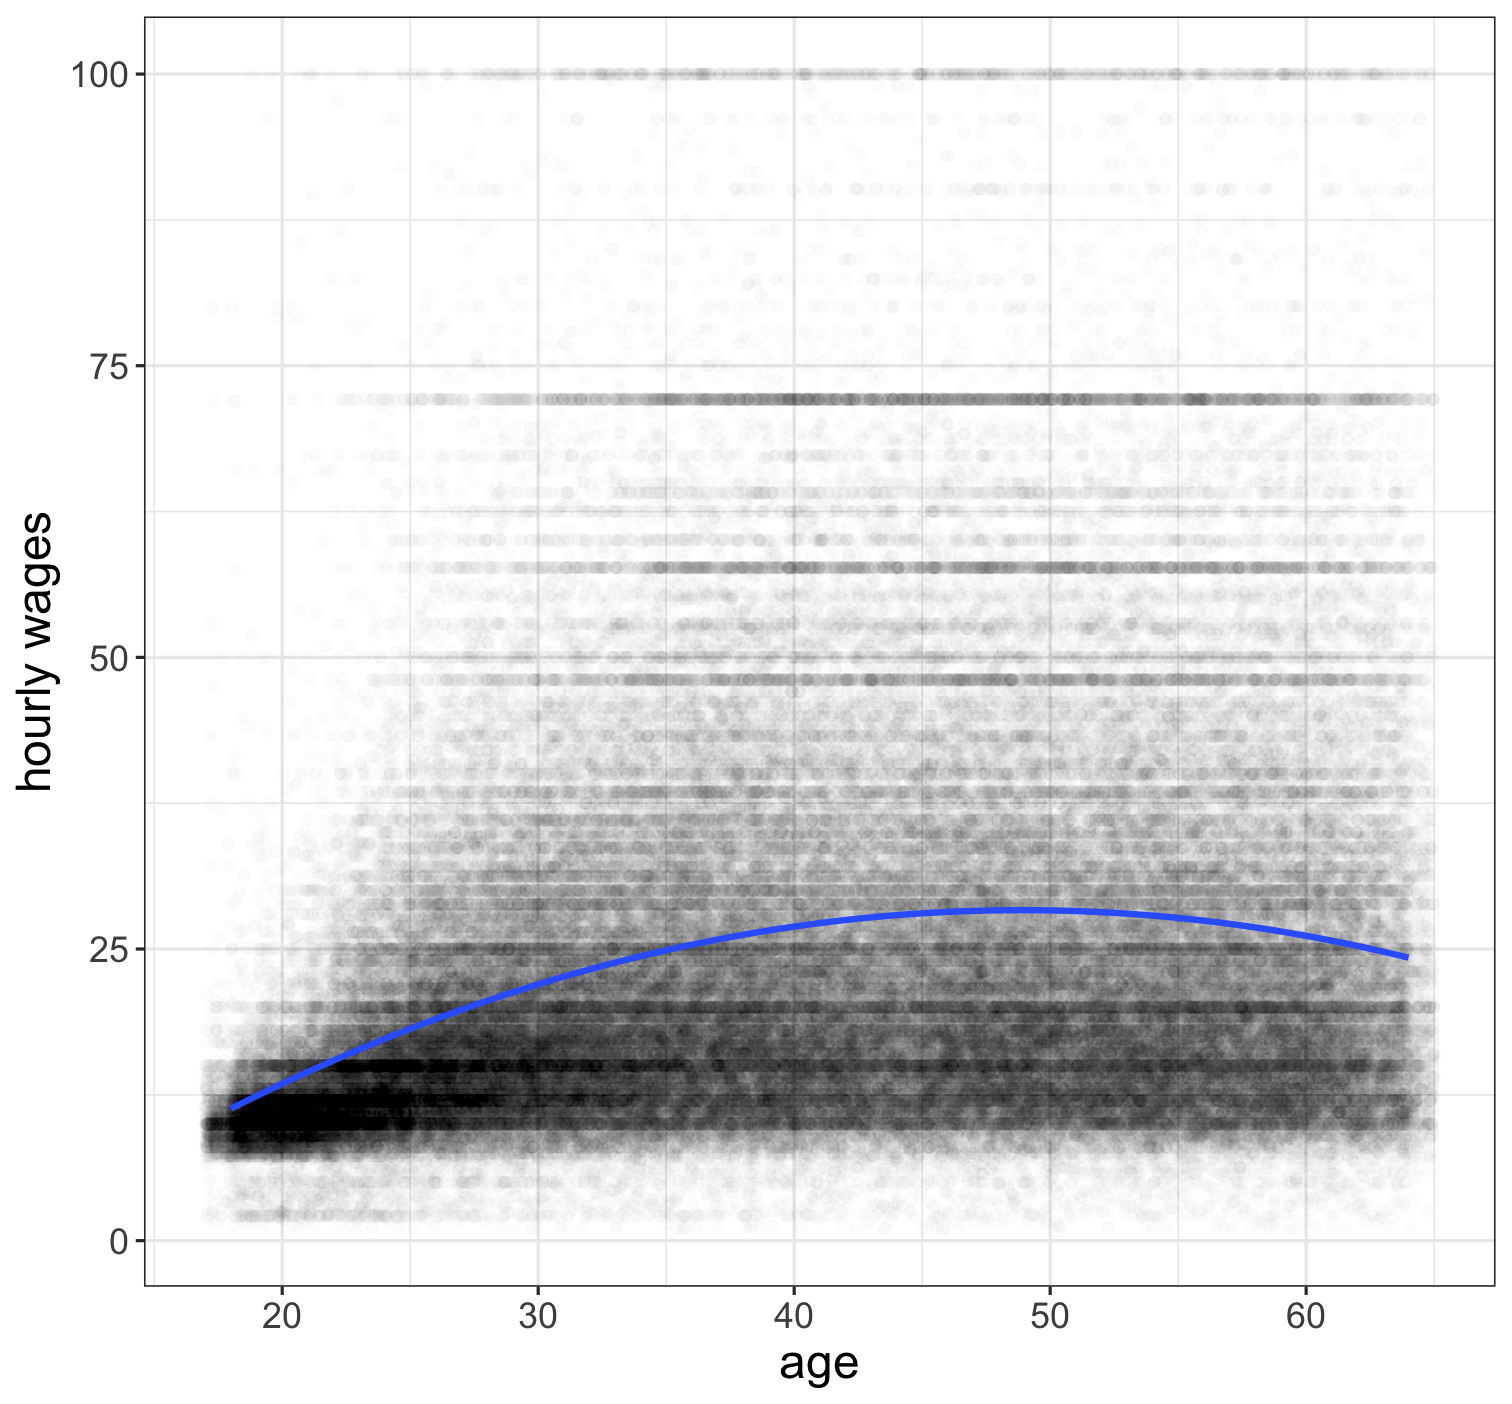
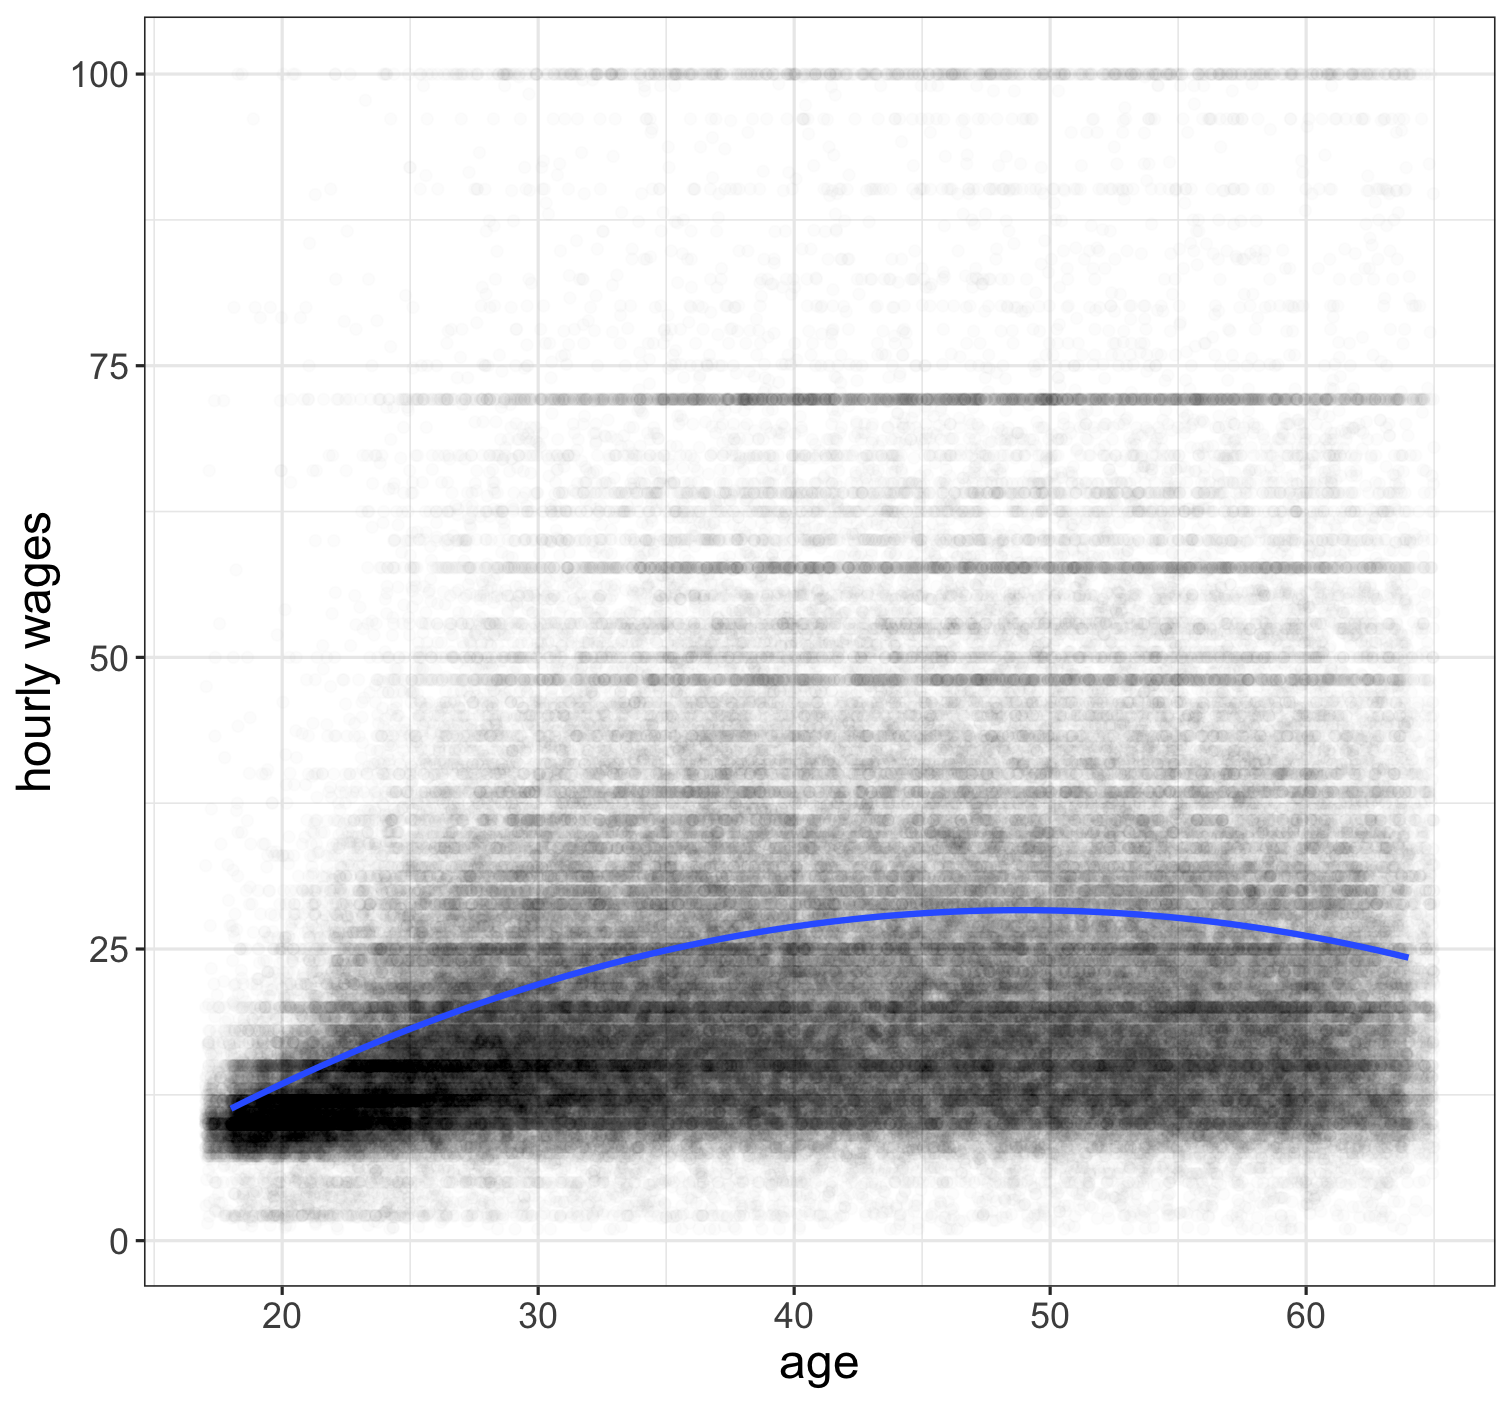
corrected multiple imputation in slides to use addhealth not popularity

diff --git a/_site/stat_slides/module6_slides_model_complications.html b/_site/stat_slides/module6_slides_model_complications.html
@@ -1918,11 +1918,11 @@ sneetch.sample
 ```
 
 ```
-##           type income      prob weight
-## 2 Star-bellied      7 0.6666667    1.5
-## 1 Star-bellied      3 0.6666667    1.5
-## 5      Regular      1 0.2857143    3.5
-## 9      Regular      2 0.2857143    3.5
+##            type income      prob weight
+## 2  Star-bellied      7 0.6666667    1.5
+## 3  Star-bellied      6 0.6666667    1.5
+## 10      Regular      1 0.2857143    3.5
+## 4       Regular      2 0.2857143    3.5
 ```
 
 ```r
@@ -1934,7 +1934,7 @@ x
 
 ```
 ##        population sample.unweighted   sample.weighted 
-##              3.10              3.25              2.55
+##               3.1               4.0               3.0
 ```
 
 ---
@@ -2633,7 +2633,7 @@ addhealth$parentinc.randi[is.na(addhealth$parentinc)] &lt;- sample(na.omit(addhe
 |:--------------------|--------------------------:|-------------------:|
 | Valid cases         |  0.1320575 | 33.6984995|
 | Valid cases +mean imputed |  0.1167858 | 29.5006936|
-| Valid cases +random imputed |  0.0903225 | 33.3850046|
+| Valid cases +random imputed |  0.1032713 | 33.1456811|
 
 - Both techniques will systematically underestimate correlation.
 - Mean imputation will underestimate the variance of the imputed variable. 
@@ -2740,7 +2740,7 @@ sd(addhealth$parentinc.rregi, na.rm=TRUE)
 ```
 
 ```
-## [1] 33.23026
+## [1] 32.8021
 ```
 
 
@@ -2826,10 +2826,10 @@ I can then use this new dataset `addhealth.ce` to run my models.
 &lt;td style="padding-right: 12px; border: none;"&gt;3.391&lt;sup style="vertical-align: 0px;"&gt;***&lt;/sup&gt;&lt;/td&gt;
 &lt;td style="padding-right: 12px; border: none;"&gt;3.360&lt;sup style="vertical-align: 0px;"&gt;***&lt;/sup&gt;&lt;/td&gt;
 &lt;td style="padding-right: 12px; border: none;"&gt;3.399&lt;sup style="vertical-align: 0px;"&gt;***&lt;/sup&gt;&lt;/td&gt;
-&lt;td style="padding-right: 12px; border: none;"&gt;3.500&lt;sup style="vertical-align: 0px;"&gt;***&lt;/sup&gt;&lt;/td&gt;
+&lt;td style="padding-right: 12px; border: none;"&gt;3.454&lt;sup style="vertical-align: 0px;"&gt;***&lt;/sup&gt;&lt;/td&gt;
 &lt;td style="padding-right: 12px; border: none;"&gt;3.350&lt;sup style="vertical-align: 0px;"&gt;***&lt;/sup&gt;&lt;/td&gt;
-&lt;td style="padding-right: 12px; border: none;"&gt;3.455&lt;sup style="vertical-align: 0px;"&gt;***&lt;/sup&gt;&lt;/td&gt;
-&lt;td style="padding-right: 12px; border: none;"&gt;3.354&lt;sup style="vertical-align: 0px;"&gt;***&lt;/sup&gt;&lt;/td&gt;
+&lt;td style="padding-right: 12px; border: none;"&gt;3.472&lt;sup style="vertical-align: 0px;"&gt;***&lt;/sup&gt;&lt;/td&gt;
+&lt;td style="padding-right: 12px; border: none;"&gt;3.326&lt;sup style="vertical-align: 0px;"&gt;***&lt;/sup&gt;&lt;/td&gt;
 &lt;/tr&gt;
 &lt;tr&gt;
 &lt;td style="padding-right: 12px; border: none;"&gt;&lt;/td&gt;
@@ -2839,17 +2839,17 @@ I can then use this new dataset `addhealth.ce` to run my models.
 &lt;td style="padding-right: 12px; border: none;"&gt;(0.105)&lt;/td&gt;
 &lt;td style="padding-right: 12px; border: none;"&gt;(0.107)&lt;/td&gt;
 &lt;td style="padding-right: 12px; border: none;"&gt;(0.105)&lt;/td&gt;
-&lt;td style="padding-right: 12px; border: none;"&gt;(0.103)&lt;/td&gt;
+&lt;td style="padding-right: 12px; border: none;"&gt;(0.102)&lt;/td&gt;
 &lt;/tr&gt;
 &lt;tr&gt;
 &lt;td style="padding-right: 12px; border: none;"&gt;Parental income (1000s)&lt;/td&gt;
 &lt;td style="padding-right: 12px; border: none;"&gt;0.012&lt;sup style="vertical-align: 0px;"&gt;***&lt;/sup&gt;&lt;/td&gt;
 &lt;td style="padding-right: 12px; border: none;"&gt;0.012&lt;sup style="vertical-align: 0px;"&gt;***&lt;/sup&gt;&lt;/td&gt;
 &lt;td style="padding-right: 12px; border: none;"&gt;0.012&lt;sup style="vertical-align: 0px;"&gt;***&lt;/sup&gt;&lt;/td&gt;
-&lt;td style="padding-right: 12px; border: none;"&gt;0.008&lt;sup style="vertical-align: 0px;"&gt;***&lt;/sup&gt;&lt;/td&gt;
+&lt;td style="padding-right: 12px; border: none;"&gt;0.009&lt;sup style="vertical-align: 0px;"&gt;***&lt;/sup&gt;&lt;/td&gt;
 &lt;td style="padding-right: 12px; border: none;"&gt;0.013&lt;sup style="vertical-align: 0px;"&gt;***&lt;/sup&gt;&lt;/td&gt;
-&lt;td style="padding-right: 12px; border: none;"&gt;0.010&lt;sup style="vertical-align: 0px;"&gt;***&lt;/sup&gt;&lt;/td&gt;
-&lt;td style="padding-right: 12px; border: none;"&gt;0.012&lt;sup style="vertical-align: 0px;"&gt;***&lt;/sup&gt;&lt;/td&gt;
+&lt;td style="padding-right: 12px; border: none;"&gt;0.009&lt;sup style="vertical-align: 0px;"&gt;***&lt;/sup&gt;&lt;/td&gt;
+&lt;td style="padding-right: 12px; border: none;"&gt;0.013&lt;sup style="vertical-align: 0px;"&gt;***&lt;/sup&gt;&lt;/td&gt;
 &lt;/tr&gt;
 &lt;tr&gt;
 &lt;td style="padding-right: 12px; border: none;"&gt;&lt;/td&gt;
@@ -2868,8 +2868,8 @@ I can then use this new dataset `addhealth.ce` to run my models.
 &lt;td style="padding-right: 12px; border: none;"&gt;0.203&lt;/td&gt;
 &lt;td style="padding-right: 12px; border: none;"&gt;0.193&lt;/td&gt;
 &lt;td style="padding-right: 12px; border: none;"&gt;0.187&lt;/td&gt;
-&lt;td style="padding-right: 12px; border: none;"&gt;0.191&lt;/td&gt;
-&lt;td style="padding-right: 12px; border: none;"&gt;0.206&lt;/td&gt;
+&lt;td style="padding-right: 12px; border: none;"&gt;0.189&lt;/td&gt;
+&lt;td style="padding-right: 12px; border: none;"&gt;0.202&lt;/td&gt;
 &lt;/tr&gt;
 &lt;tr&gt;
 &lt;td style="padding-right: 12px; border: none;"&gt;&lt;/td&gt;
@@ -2879,17 +2879,17 @@ I can then use this new dataset `addhealth.ce` to run my models.
 &lt;td style="padding-right: 12px; border: none;"&gt;(0.161)&lt;/td&gt;
 &lt;td style="padding-right: 12px; border: none;"&gt;(0.162)&lt;/td&gt;
 &lt;td style="padding-right: 12px; border: none;"&gt;(0.162)&lt;/td&gt;
-&lt;td style="padding-right: 12px; border: none;"&gt;(0.160)&lt;/td&gt;
+&lt;td style="padding-right: 12px; border: none;"&gt;(0.159)&lt;/td&gt;
 &lt;/tr&gt;
 &lt;tr&gt;
 &lt;td style="padding-right: 12px; border: none;"&gt;Drinker&lt;/td&gt;
 &lt;td style="padding-right: 12px; border: none;"&gt;0.663&lt;sup style="vertical-align: 0px;"&gt;***&lt;/sup&gt;&lt;/td&gt;
 &lt;td style="padding-right: 12px; border: none;"&gt;0.666&lt;sup style="vertical-align: 0px;"&gt;***&lt;/sup&gt;&lt;/td&gt;
 &lt;td style="padding-right: 12px; border: none;"&gt;0.668&lt;sup style="vertical-align: 0px;"&gt;***&lt;/sup&gt;&lt;/td&gt;
-&lt;td style="padding-right: 12px; border: none;"&gt;0.685&lt;sup style="vertical-align: 0px;"&gt;***&lt;/sup&gt;&lt;/td&gt;
+&lt;td style="padding-right: 12px; border: none;"&gt;0.681&lt;sup style="vertical-align: 0px;"&gt;***&lt;/sup&gt;&lt;/td&gt;
 &lt;td style="padding-right: 12px; border: none;"&gt;0.665&lt;sup style="vertical-align: 0px;"&gt;***&lt;/sup&gt;&lt;/td&gt;
-&lt;td style="padding-right: 12px; border: none;"&gt;0.677&lt;sup style="vertical-align: 0px;"&gt;***&lt;/sup&gt;&lt;/td&gt;
-&lt;td style="padding-right: 12px; border: none;"&gt;0.655&lt;sup style="vertical-align: 0px;"&gt;***&lt;/sup&gt;&lt;/td&gt;
+&lt;td style="padding-right: 12px; border: none;"&gt;0.684&lt;sup style="vertical-align: 0px;"&gt;***&lt;/sup&gt;&lt;/td&gt;
+&lt;td style="padding-right: 12px; border: none;"&gt;0.652&lt;sup style="vertical-align: 0px;"&gt;***&lt;/sup&gt;&lt;/td&gt;
 &lt;/tr&gt;
 &lt;tr&gt;
 &lt;td style="padding-right: 12px; border: none;"&gt;&lt;/td&gt;
@@ -2906,10 +2906,10 @@ I can then use this new dataset `addhealth.ce` to run my models.
 &lt;td style="padding-right: 12px; border: none;"&gt;0.454&lt;sup style="vertical-align: 0px;"&gt;***&lt;/sup&gt;&lt;/td&gt;
 &lt;td style="padding-right: 12px; border: none;"&gt;0.476&lt;sup style="vertical-align: 0px;"&gt;***&lt;/sup&gt;&lt;/td&gt;
 &lt;td style="padding-right: 12px; border: none;"&gt;0.474&lt;sup style="vertical-align: 0px;"&gt;***&lt;/sup&gt;&lt;/td&gt;
-&lt;td style="padding-right: 12px; border: none;"&gt;0.489&lt;sup style="vertical-align: 0px;"&gt;***&lt;/sup&gt;&lt;/td&gt;
+&lt;td style="padding-right: 12px; border: none;"&gt;0.483&lt;sup style="vertical-align: 0px;"&gt;***&lt;/sup&gt;&lt;/td&gt;
 &lt;td style="padding-right: 12px; border: none;"&gt;0.462&lt;sup style="vertical-align: 0px;"&gt;***&lt;/sup&gt;&lt;/td&gt;
-&lt;td style="padding-right: 12px; border: none;"&gt;0.474&lt;sup style="vertical-align: 0px;"&gt;***&lt;/sup&gt;&lt;/td&gt;
-&lt;td style="padding-right: 12px; border: none;"&gt;0.464&lt;sup style="vertical-align: 0px;"&gt;***&lt;/sup&gt;&lt;/td&gt;
+&lt;td style="padding-right: 12px; border: none;"&gt;0.475&lt;sup style="vertical-align: 0px;"&gt;***&lt;/sup&gt;&lt;/td&gt;
+&lt;td style="padding-right: 12px; border: none;"&gt;0.455&lt;sup style="vertical-align: 0px;"&gt;***&lt;/sup&gt;&lt;/td&gt;
 &lt;/tr&gt;
 &lt;tr&gt;
 &lt;td style="padding-right: 12px; border: none;"&gt;&lt;/td&gt;
@@ -2946,10 +2946,10 @@ I can then use this new dataset `addhealth.ce` to run my models.
 &lt;td style="border-top: 1px solid black;"&gt;0.048&lt;/td&gt;
 &lt;td style="border-top: 1px solid black;"&gt;0.046&lt;/td&gt;
 &lt;td style="border-top: 1px solid black;"&gt;0.046&lt;/td&gt;
-&lt;td style="border-top: 1px solid black;"&gt;0.043&lt;/td&gt;
+&lt;td style="border-top: 1px solid black;"&gt;0.044&lt;/td&gt;
 &lt;td style="border-top: 1px solid black;"&gt;0.048&lt;/td&gt;
-&lt;td style="border-top: 1px solid black;"&gt;0.045&lt;/td&gt;
-&lt;td style="border-top: 1px solid black;"&gt;0.049&lt;/td&gt;
+&lt;td style="border-top: 1px solid black;"&gt;0.044&lt;/td&gt;
+&lt;td style="border-top: 1px solid black;"&gt;0.051&lt;/td&gt;
 &lt;/tr&gt;
 &lt;tr&gt;
 &lt;td style="border-bottom: 2px solid black;"&gt;Num. obs.&lt;/td&gt;
@@ -3018,7 +3018,7 @@ To get multiple complete datasets with `mice` we just need to specify the number
 
 
 ```r
-imputations &lt;- mice(popularity, 5, printFlag=FALSE)
+imputations &lt;- mice(addhealth, 5, printFlag=FALSE)
 ```
 
 --
@@ -3044,11 +3044,11 @@ summary(model.mi)
 
 ```
 ##                     estimate   std.error statistic       df      p.value
-## (Intercept)       3.38654549 0.102909528 32.907988 4389.514 0.000000e+00
-## parentinc         0.01126339 0.001630526  6.907827 4389.514 5.627498e-12
-## smokerSmoker      0.23538273 0.159687599  1.474020 4389.514 1.405479e-01
-## alcoholuseDrinker 0.64050221 0.154054327  4.157639 4389.514 3.276895e-05
-## nsports           0.47096906 0.042956107 10.963961 4389.514 0.000000e+00
+## (Intercept)       3.37344779 0.118626247 28.437617 3361.137 0.000000e+00
+## parentinc         0.01194228 0.001879734  6.353176 3362.637 2.392513e-10
+## smokerSmoker      0.37880549 0.187138738  2.024196 3206.602 4.303274e-02
+## alcoholuseDrinker 0.66818254 0.179547092  3.721489 3328.581 2.013254e-04
+## nsports           0.45580057 0.048925431  9.316230 3362.550 0.000000e+00
 ```
 
 ---
@@ -3070,12 +3070,12 @@ b
 ```
 
 ```
-##                         [,1]       [,2]       [,3]       [,4]       [,5]
-## (Intercept)       3.38654549 3.38654549 3.38654549 3.38654549 3.38654549
-## parentinc         0.01126339 0.01126339 0.01126339 0.01126339 0.01126339
-## smokerSmoker      0.23538273 0.23538273 0.23538273 0.23538273 0.23538273
-## alcoholuseDrinker 0.64050221 0.64050221 0.64050221 0.64050221 0.64050221
-## nsports           0.47096906 0.47096906 0.47096906 0.47096906 0.47096906
+##                         [,1]       [,2]      [,3]       [,4]       [,5]
+## (Intercept)       3.37244459 3.37057686 3.3754089 3.37292063 3.37588792
+## parentinc         0.01193955 0.01193973 0.0119505 0.01192138 0.01196022
+## smokerSmoker      0.38977821 0.38801440 0.3754587 0.38561715 0.35515895
+## alcoholuseDrinker 0.66250220 0.68203854 0.6601182 0.67192707 0.66432669
+## nsports           0.45640683 0.45551620 0.4553763 0.45626381 0.45543973
 ```
 
 The `b` and `se` objects are matrices that contain the coefficients and standard errors, respectively, for each model on the column.
@@ -3099,11 +3099,11 @@ data.frame(b.pool, se.pool, t.pool, pvalue.pool)
 
 ```
 ##                       b.pool     se.pool    t.pool  pvalue.pool
-## (Intercept)       3.38654549 0.102909528 32.907988 0.000000e+00
-## parentinc         0.01126339 0.001630526  6.907827 4.921397e-12
-## smokerSmoker      0.23538273 0.159687599  1.474020 1.404762e-01
-## alcoholuseDrinker 0.64050221 0.154054327  4.157639 3.215542e-05
-## nsports           0.47096906 0.042956107 10.963961 0.000000e+00
+## (Intercept)       3.37344779 0.118626247 28.437617 0.000000e+00
+## parentinc         0.01194228 0.001879734  6.353176 2.109135e-10
+## smokerSmoker      0.37880549 0.187138738  2.024196 4.294999e-02
+## alcoholuseDrinker 0.66818254 0.179547092  3.721489 1.980515e-04
+## nsports           0.45580057 0.048925431  9.316230 0.000000e+00
 ```
 
 ---
